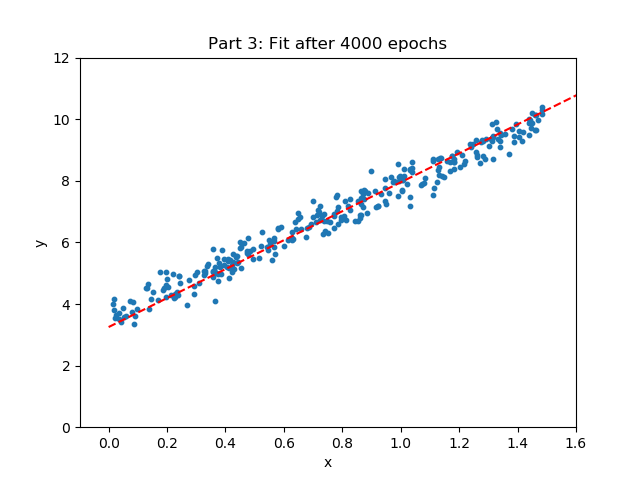
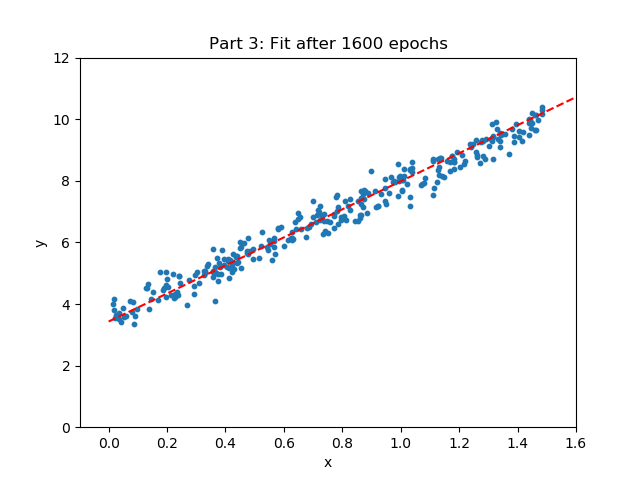
Code looking beautiful for q2

diff --git a/Assignment1/Q2.py b/Assignment1/Q2.py
@@ -7,6 +7,8 @@ import random
 2) Gradient Descent for Regression
 '''
 GRANULARITY = 50
+FIGSIZE = [10, 7]
+# One degree polynomial will fit this model
 MAX_DEGREE = 1
 
 train_2 = pd.read_csv(r'./Datasets/Dataset_2_train.csv', header=None)
@@ -17,14 +19,15 @@ example_set = {'train': train_2, 'valid': valid_2, 'test': test_2}
 output_set = {}
 
 
-def mean_square_error(X, y, W):
-    y_hat = np.matmul(X, W)
-    mean_square_err = np.sum(np.square(y - y_hat)) / len(y)
-
-    return mean_square_err
-
-# Normal equation with regularization (lambda_reg=0 means no regularization)
 def fit(X, y, lambda_reg=0):
+    '''
+    Uses least-squares closed-form solution to obtain the optimal weights
+
+    :param X: The input matrix of shape N x M
+    :param y: The output vector N x 1
+    :param lambda_reg: The regularization term. lambda_reg=0 means no regularization
+    :return: The optimal weights as an M x 1 vector
+    '''
     identity = np.identity(MAX_DEGREE + 1)
     # identity[0, 0] = 0 # We do not penalize the bias term
 
@@ -34,6 +37,22 @@ def fit(X, y, lambda_reg=0):
 
     return weights
 
+
+def mean_square_error(X, y, W):
+    '''
+    Comptes the MSE of the dataset
+    :param X: The input matrix of shape N x M
+    :param y: The output vector N x 1
+    :param W: Weights M x 1
+    :return: MSE
+    '''
+    y_hat = np.matmul(X, W)
+    mean_square_err = np.sum(np.square(y - y_hat)) / len(y)
+
+    return mean_square_err
+
+
+# Preprocessing input (separating X and y, adding bias column of 1s)
 for key in example_set:
     output_set[key] = example_set[key][1]
     example_set[key].drop([1, 2], axis=1, inplace=True)
@@ -41,67 +60,140 @@ for key in example_set:
     example_set[key][0] = 1.
     example_set[key] = example_set[key][[0, 1]]
 
+# Generating powers to MAX_DEGREE
 for i in range(2, MAX_DEGREE + 1):
     for _, df in example_set.items():
         df[i] = np.power(df[1], i)
 
+# Convert to numpy arrays for faster descent
 for key in example_set:
     example_set[key] = np.array(example_set[key], dtype=np.float64)
     output_set[key] = np.array(output_set[key], dtype=np.float64)
 
 # Sanity check: Check against polyfit and our least squares fit to see if SGD is accurate
-weights_opt = np.polyfit(example_set['train'][:, 1], output_set['train'], MAX_DEGREE)[::-1]
+weights_poly = np.polyfit(example_set['train'][:, 1], output_set['train'], MAX_DEGREE)[::-1]
 weights_normal = fit(example_set['train'], output_set['train'])
-print('polyfit weights:', weights_opt)
-print('normaleq weights:', weights_normal)
+print('Polyfit weights:', weights_poly)
+print('Least Squares weights:', weights_normal)
 
 '''
-Try gradient descent first for fun
+Define algorithm parameters
 '''
-ALPHA = 1e-5
-EPOCHS = 20000
+ALPHA = 1e-6 # step size
+EPOCHS = 10001 # iterations over all examples
 
-weights_original = np.random.uniform(high=10., size=[MAX_DEGREE + 1])
+# x axis for fit curve
+x_axis = pd.DataFrame(np.ones(GRANULARITY))
+x_axis[1] = np.arange(0, 2, 2 / GRANULARITY)
+for i in range(2, MAX_DEGREE + 1):
+    x_axis[i] = pow(x_axis[1], i)
+
+# weights_original = np.random.uniform(high=5., size=[MAX_DEGREE + 1]) # Randomly initialize weights w = [w0, w1]
+weights_original = np.array([5, 6], dtype=np.float64)
 # weights = np.array([4., 7.], dtype=np.float64)
-print('weights original', weights_original)
+print('Weights initialized randomly to:', weights_original)
 X = example_set['train']
 y = output_set['train']
-#
-# for epoch in range(EPOCHS):
-#     weights = weights - ALPHA * np.matmul( np.transpose(X), np.matmul(X, weights) - y)
+
+
+def visualize(W, visualize_all=False, X=None, y=None, title_for_all="", title_for_x="", save_all_as=None, save_x_as=None):
+    '''
+    Convenience function used for plotting
+    :param W: The weights of the model
+    :param visualize_all: Visualize all sets
+    :param X: Visualize the given input X
+    :param y: The output associated with input X
+    :param title_for_all: Title for plot if visualize_all is set
+    :param title_for_x: Title for plot if X is given
+    :param save_all_as: Save the plot generated if visualize_all is set
+    :param save_x_as: Save the plot generated for input X and associated output y
+    '''
+    global x_axis
+    model_fit = np.matmul(x_axis, W)
+
+    # Visualize fit on all three sets of data
+    fig_no = 1
+    if visualize_all:
+        plt.figure(fig_no, figsize=FIGSIZE)
+        fig_no += 1
+        for i, key in enumerate(example_set, 1):
+            plt.subplot(len(example_set), 1, i)
+            plt.scatter(example_set[key][:, 1], output_set[key])
+            plt.plot(x_axis[1], model_fit, 'r--')
+            plt.title(title_for_all + ": " + key.upper())
+            plt.xlabel('x')
+            plt.ylabel('y')
+            # plt.ylim([-22, 40])
+        plt.tight_layout()
+        if save_all_as:
+            plt.savefig('./plots/' + save_all_as,  bbox_inches='tight')
+
+    if not(X is None or y is None):
+        plt.figure(fig_no, figsize=FIGSIZE)
+        plt.scatter(X[:, 1], y)
+        plt.plot(x_axis[1], model_fit, 'r--')
+        plt.title(title_for_x)
+        plt.xlabel('x')
+        plt.ylabel('y')
+        # plt.ylim([-22, 40])
+        if save_x_as:
+            plt.savefig('./plots/' + save_x_as,  bbox_inches='tight')
+    plt.show()
+
+
+'''
+Try gradient descent first just for fun with ALPHA=1e-3
+'''
+# Copy of randomly initialized weights
+weights_GD = np.copy(weights_original)
+for epoch in range(EPOCHS):
+    weights_GD = weights_GD - 1e-3 * np.matmul(np.transpose(X), np.matmul(X, weights_GD) - y)
+
+# We can see that Gradient descent gives us the same results as np.polyfit and our closed form least-squares solution
+print('Weights from Gradient Descent:', weights_GD)
+print()
 
 
 '''
 Stochastic gradient descent
 '''
 
-# Decision boundary x axis
-x_axis = pd.DataFrame(np.ones(GRANULARITY))
-x_axis[1] = np.arange(0, 2, 2 / GRANULARITY)
-for i in range(2, MAX_DEGREE + 1):
-    x_axis[i] = pow(x_axis[1], i)
 
-# decision_boundary = np.matmul(x_axis, weights_opt)
-# plt.scatter(example_set['train'][1], output_set['train'])
-# plt.plot(x_axis[1], decision_boundary, 'y--')
-# plt.show()
-
+def plot(X, y, x_axis, weights, epoch):
+    '''
+    Helper for plotting updates during SGD
+    '''
+    model_fit = np.matmul(x_axis, weights)
+    plt.scatter(X[:, 1], y, s=10)
+    plt.plot(x_axis[1], model_fit, 'r--')
+    plt.title('Part 3: Fit after ' + str(epoch) + ' epochs')
+    plt.xlabel('x')
+    plt.ylabel('y')
+    plt.ylim(ymin=0, ymax=12)
+    plt.xlim(xmax=1.6)
+    plt.show()
 
 def SGD(X, y, epochs, weights, alpha, plot_at_epoch=None):
-    N = example_set['train'].shape[0]
+    print('Weights at start:', weights)
+    '''
+    Returns the optimal weights, train MSE and valid MSE for the dataset.
+    :param X: The training set N x M
+    :param y: The actual output of the training set N x 1
+    :param epochs: The number of iterations over all training sets
+    :param weights: A M x 1 vector representing the weights
+    :param alpha: The step size used for descent.
+    :param plot_at_epoch: If specified, updates with plots every plot_at_epoch epochs to indicate progress of SGD
+    :return: The optimal weights, train MSE and valid MSE
+    '''
+    global x_axis
+    N = len(X)
     train_mse = []
     valid_mse = []
+
     for epoch in range(epochs):
-        if epoch % 2000 == 0:
-            decision_boundary = np.matmul(x_axis, weights)
-            plt.scatter(X[:, 1], y, s=10)
-            plt.plot(x_axis[1], decision_boundary, 'r--')
-            plt.title('Part 3: Fit after ' + str(epoch) + ' epochs')
-            plt.xlabel('x')
-            plt.ylabel('y')
-            plt.ylim(ymin=0, ymax=12)
-            plt.xlim(xmax=1.6)
-            plt.show()
+        if plot_at_epoch and epoch % plot_at_epoch == 0:
+           plot(X, y, x_axis, weights, epoch)
+        # Iterate over all N examples
         for i in range(N):
             weights = weights - alpha * (np.sum((X[i] * weights)) - y[i]) * X[i]
         train_mse.append(mean_square_error(X, y, weights))
@@ -110,57 +202,59 @@ def SGD(X, y, epochs, weights, alpha, plot_at_epoch=None):
     return weights, train_mse, valid_mse
 
 
-weights, train_mse, valid_mse = SGD(X, y, EPOCHS, weights_original.copy(), ALPHA)
+weights, train_mse, valid_mse = SGD(X, y, EPOCHS, np.copy(weights_original), ALPHA)
+print('Weights at end:', weights)
 
-# plt.figure(1)
-# plt.plot(np.arange(0, EPOCHS, 1), train_mse, label='train')
-# plt.plot(np.arange(0, EPOCHS, 1), valid_mse, label='valid')
-# plt.title('Part 1: Learning curve for Train and Valid')
-# plt.legend()
-# plt.xlabel('Epochs')
-# plt.ylabel('MSE')
-# plt.ylim(ymin=0, ymax=2.5)
-#
-# '''
-# Part 2) Choose best step size ALPHA using validation data
-# '''
-# best_alpha = -1
-# lowest_mse = 99999
-# alphas = [1e-6, 2e-6, 1e-5, 2e-5, 1e-4, 2e-4, 1e-3, 2e-3, 1e-2, 2e-2]
-# MSEs = []
-# # weights_og = np.random.uniform(high=10., size=[MAX_DEGREE + 1])
-# weights_og = np.array([6.85035978, 8.34571567], dtype=np.float64)
-# # print('weghts og', weights_og)
-# for cur_alpha in alphas:
-#     print('cur alpha:', cur_alpha)
-#     weights, _, _ = SGD(X, y, EPOCHS, weights_og.copy(), cur_alpha)
-#     mse_for_valid = mean_square_error(example_set['valid'], output_set['valid'], weights)
-#     print(mse_for_valid)
-#     print(weights)
-#     MSEs.append(mse_for_valid)
-#     if mse_for_valid < lowest_mse:
-#         lowest_mse = mse_for_valid
-#         best_alpha = cur_alpha
-#
-# plt.figure(2)
-# plt.plot(alphas, MSEs, 'ro')
-# plt.plot(alphas, MSEs, 'r--')
-# plt.title('Part 2: Step size (alpha) vs MSE for Valid')
-# plt.xlabel('Step size (alpha)')
-# plt.ylabel('MSE')
-# plt.ylim(ymax=0.09)
-# plt.xlim([-0.00001, 0.0004])
-# print(best_alpha)
-#
-# # Decision boundary x axis
-# x_axis = pd.DataFrame(np.ones(GRANULARITY))
-# x_axis[1] = np.arange(0, 2, 2 / GRANULARITY)
-# for i in range(2, MAX_DEGREE + 1):
-#     x_axis[i] = pow(x_axis[1], i)
-#
-# decision_boundary = np.matmul(x_axis, weights_opt)
-# plt.scatter(example_set['train'][1], output_set['train'])
-# plt.plot(x_axis[1], decision_boundary, 'y--')
-# plt.show()
+# Display MSEs for each set
+for key in example_set:
+    print('MSE for', key, 'set with 1e-6:', mean_square_error(example_set[key], output_set[key], weights))
 
+
+# Plot the learning curve for training and valid sets
+plt.plot(np.arange(0, EPOCHS, 1), train_mse, label='train')
+plt.plot(np.arange(0, EPOCHS, 1), valid_mse, label='valid')
+plt.title('Part 1: Learning curve for Train and Valid Sets')
+plt.legend()
+plt.xlabel('Epochs')
+plt.ylabel('MSE')
+plt.ylim(ymin=0, ymax=2.5)
 plt.show()
+
+
+'''
+Part 2) Choose best step size ALPHA using validation data
+'''
+best_alpha = -1
+lowest_mse = 99999
+alphas = [1e-6, 5e-6, 1e-5, 5e-5, 1e-4, 5e-4, 1e-3, 5e-3, 1e-2, 5e-2]
+MSEs = []
+
+for cur_alpha in alphas:
+    print('cur alpha:', cur_alpha)
+    weights, _, _ = SGD(X, y, EPOCHS, np.copy(weights_original), cur_alpha)
+    mse_for_valid = mean_square_error(example_set['valid'], output_set['valid'], weights)
+    MSEs.append(mse_for_valid)
+    if mse_for_valid < lowest_mse:
+        lowest_mse = mse_for_valid
+        best_alpha = cur_alpha
+
+plt.plot(alphas, MSEs, 'ro')
+plt.plot(alphas, MSEs, 'r--')
+plt.title('Part 2: Step size (alpha) vs MSE for Valid')
+plt.xlabel('Step size (alpha)')
+plt.xscale('log')
+plt.ylabel('MSE')
+plt.show()
+
+print('Best alpha:', best_alpha)
+
+
+# Obtain optimal weights using best_alpha
+weights_opt, _, _ = SGD(X, y, EPOCHS, np.copy(weights_original), best_alpha, 800)
+# Display MSEs for each set
+for key in example_set:
+    print('MSE for', key, 'set with best_alpha:', mean_square_error(example_set[key], output_set[key], weights_opt))
+
+visualize(weights_opt, X=example_set['train'], y=output_set['train'], title_for_x='Fit with best step on Training Set')
+visualize(weights_opt, X=example_set['valid'], y=output_set['valid'], title_for_x='Fit with best step on Validation Set')
+visualize(weights_opt, X=example_set['test'], y=output_set['test'], title_for_x='Fit with best step on Test Set')

diff --git a/Assignment1/Q1.py b/Assignment1/Q1.py
@@ -94,7 +94,7 @@ def visualize(W, visualize_all=False, X=None, y=None, title_for_all="", title_fo
     :param save_x_as: Save the plot generated for input X and associated output y
     '''
     global x_axis
-    decision_boundary = np.matmul(x_axis, W)
+    model_fit = np.matmul(x_axis, W)
 
     # Visualize fit on all three sets of data
     fig_no = 1
@@ -104,7 +104,7 @@ def visualize(W, visualize_all=False, X=None, y=None, title_for_all="", title_fo
         for i, key in enumerate(example_set, 1):
             plt.subplot(len(example_set), 1, i)
             plt.scatter(example_set[key][:, 1], output_set[key])
-            plt.plot(x_axis[1], decision_boundary, 'r--')
+            plt.plot(x_axis[1], model_fit, 'r--')
             plt.title(title_for_all + ": " + key.upper())
             plt.xlabel('x')
             plt.ylabel('y')
@@ -116,7 +116,7 @@ def visualize(W, visualize_all=False, X=None, y=None, title_for_all="", title_fo
     if not(X is None or y is None):
         plt.figure(fig_no, figsize=FIGSIZE)
         plt.scatter(X[:, 1], y)
-        plt.plot(x_axis[1], decision_boundary, 'r--')
+        plt.plot(x_axis[1], model_fit, 'r--')
         plt.title(title_for_x)
         plt.xlabel('x')
         plt.ylabel('y')
